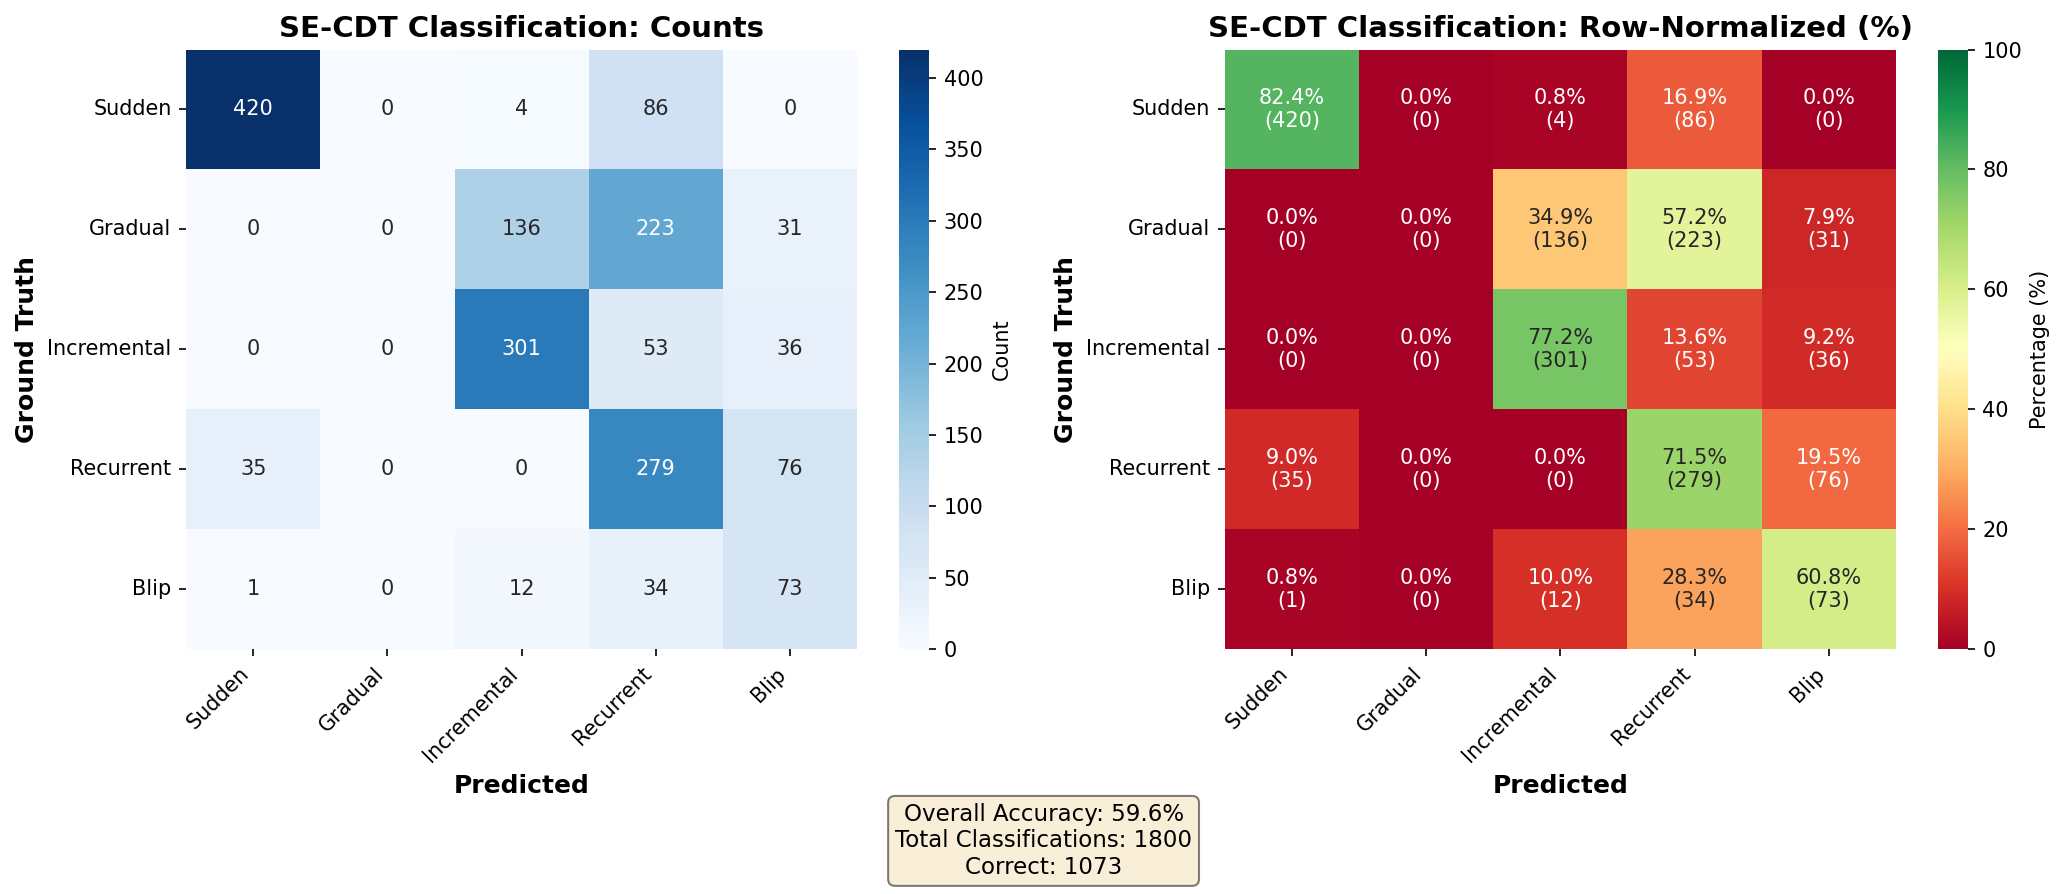
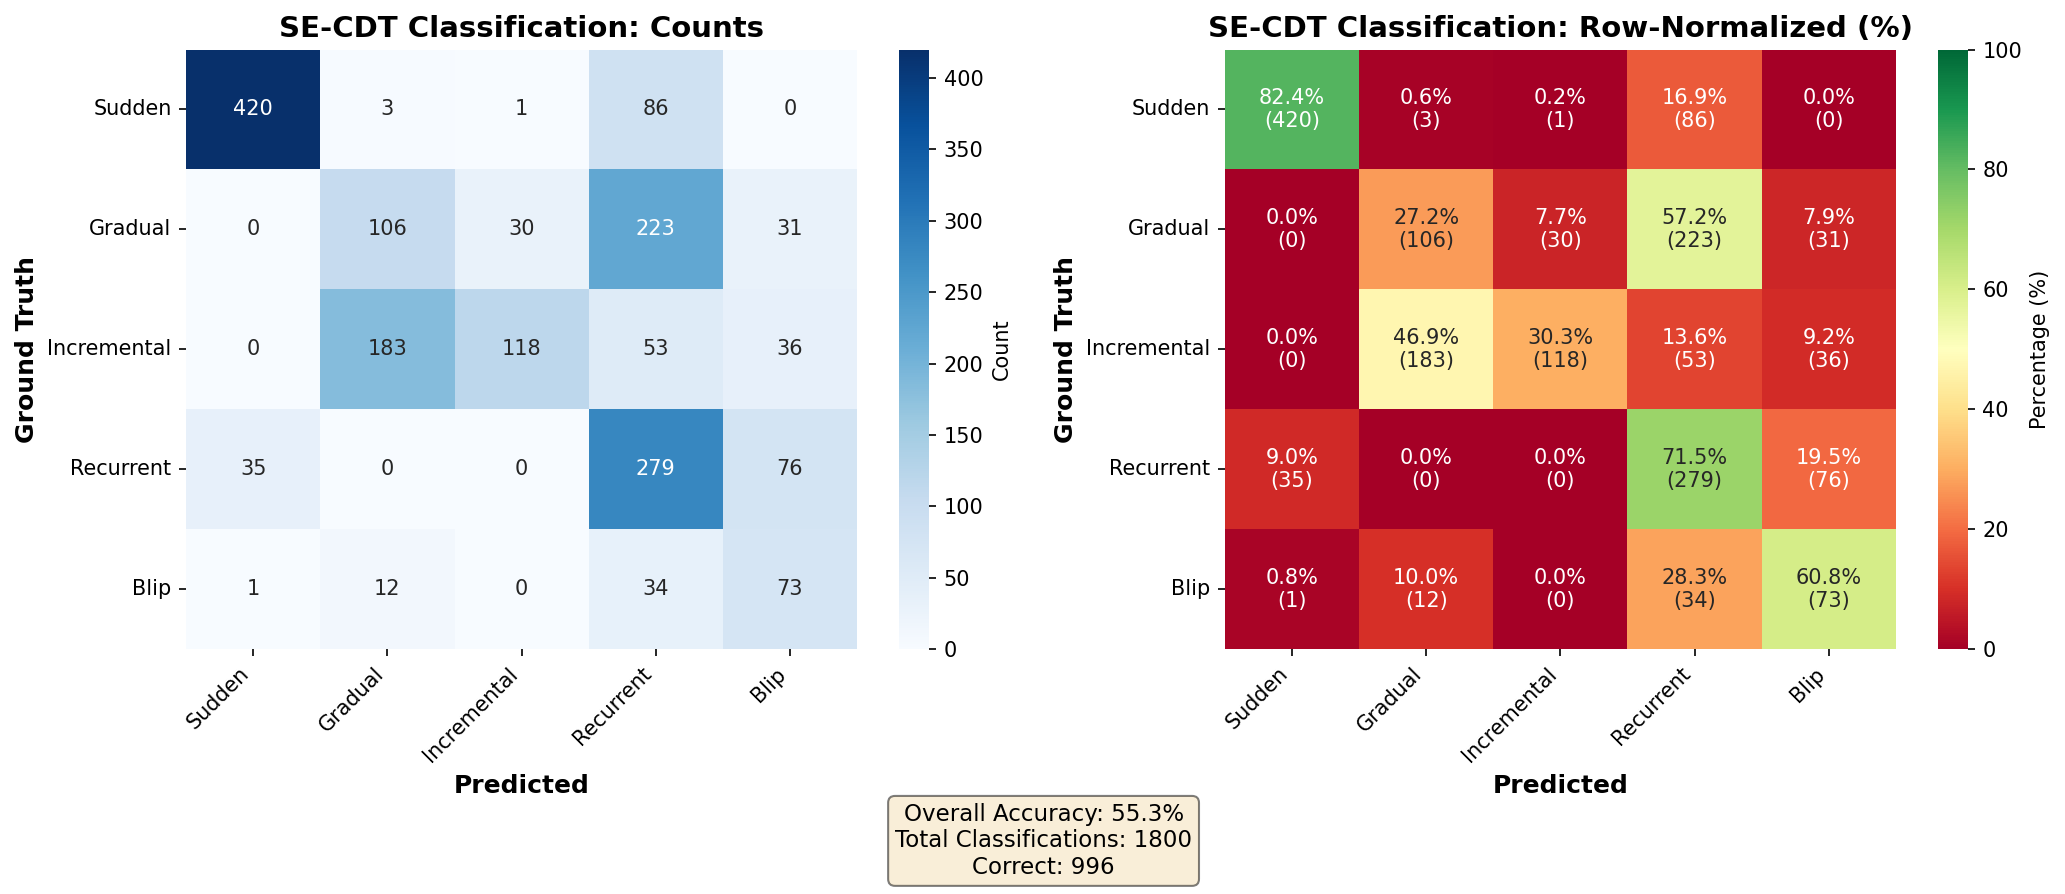
feat: correct sub acc

diff --git a/scripts/rerun_classification_vr_fix.py b/scripts/rerun_classification_vr_fix.py
@@ -1,0 +1,134 @@
+"""
+Focused re-run of the SE-CDT *classification* benchmark only.
+
+Replicates the classification loop of benchmark_proper.run_mixed_experiment
+(lines ~387-422) for all 6 scenarios x 30 seeds, comparing:
+  - BROKEN: classify(sig_slice, drift_length)            -> VR always 1.0
+  - FIXED : classify(sig_slice, drift_length, data_window) -> VR computed
+
+Concept-memory override is applied identically in both arms (it is independent
+of the VR fix) so we isolate the effect of actually computing VR.
+"""
+import sys, collections
+from pathlib import Path
+import numpy as np
+
+ROOT = Path(__file__).resolve().parent.parent
+sys.path.insert(0, str(ROOT))
+sys.path.insert(0, str(ROOT / "experiments" / "benchmark"))
+
+from benchmark_proper import (
+    generate_mixed_stream, compute_mmd_sequence, WINDOW_SIZE,
+)
+from core.detectors.se_cdt import SE_CDT
+
+DRIFT_TYPES = ["Sudden", "Blip", "Gradual", "Incremental", "Recurrent"]
+N_SEEDS = 30
+
+
+def build_events(scenario):
+    events = []
+    if scenario == "Mixed_A":
+        pattern = [{"type": "Sudden", "width": 0}, {"type": "Gradual", "width": 400},
+                   {"type": "Recurrent", "width": 400}]
+        for i in range(10):
+            evt = pattern[i % 3]
+            events.append({"type": evt["type"], "pos": 800 + i * 1000, "width": evt["width"]})
+    elif scenario == "Mixed_B":
+        pattern = [{"type": "Blip", "width": 100}, {"type": "Incremental", "width": 500},
+                   {"type": "Sudden", "width": 0}]
+        for i in range(10):
+            evt = pattern[i % 3]
+            events.append({"type": evt["type"], "pos": 800 + i * 1200, "width": evt["width"]})
+    elif scenario == "Repeated_Sudden":
+        events = [{"type": "Sudden", "pos": 800 + i * 800, "width": 0} for i in range(10)]
+    elif scenario == "Repeated_Gradual":
+        events = [{"type": "Gradual", "pos": 800 + i * 1000, "width": 1000} for i in range(10)]
+    elif scenario == "Repeated_Recurrent":
+        events = [{"type": "Recurrent", "pos": 800 + i * 1000, "width": 400} for i in range(10)]
+    elif scenario == "Repeated_Incremental":
+        events = [{"type": "Incremental", "pos": 800 + i * 1200, "width": 600} for i in range(10)]
+    return events
+
+
+def classify_stream(events, seed, pass_data_window):
+    length = events[-1]['pos'] + 2000
+    X_shared, _ = generate_mixed_stream(events, length, seed, supervised_mode=False)
+    mmd_sig = compute_mmd_sequence(X_shared, WINDOW_SIZE, step=10, use_standard=True)
+    se = SE_CDT(WINDOW_SIZE)
+
+    out = []
+    for evt in sorted(events, key=lambda e: e["pos"]):
+        evt_pos = evt['pos']
+        half_window = 750
+        win_start = max(0, evt_pos - half_window)
+        win_end = min(len(X_shared), evt_pos + half_window)
+        data_window = X_shared[win_start:win_end]
+
+        trace_idx = evt_pos // 10
+        trace_half_window = max(10, half_window // 10)
+        trace_start = max(0, trace_idx - trace_half_window)
+        trace_end = min(len(mmd_sig), trace_idx + trace_half_window)
+        sig_slice = mmd_sig[trace_start:trace_end]
+
+        if len(data_window) >= 500 and len(sig_slice) >= 10:
+            drift_length = se._growth_process(data_window, mmd_trace=sig_slice)
+            if pass_data_window:
+                res_se = se.classify(sig_slice, drift_length=drift_length, data_window=data_window)
+            else:
+                res_se = se.classify(sig_slice, drift_length=drift_length)
+
+            if se.use_concept_memory:
+                snapshot = se._extract_post_drift_snapshot(X_shared, evt_pos)
+                if snapshot is not None:
+                    recurrent_idx, _ = se._match_or_store_concept(snapshot)
+                    if recurrent_idx >= 0 and res_se.subcategory != "Blip":
+                        res_se.subcategory = "Recurrent"
+
+            out.append({"gt_type": evt['type'], "pred": res_se.subcategory,
+                        "VR": res_se.features.get("VR")})
+    return out
+
+
+def run(pass_data_window):
+    conf = {dt: collections.Counter() for dt in DRIFT_TYPES}
+    totals = collections.Counter()
+    allpred = collections.Counter()
+    vrs = collections.Counter()
+    scenarios = ["Mixed_A", "Mixed_B", "Repeated_Sudden", "Repeated_Gradual",
+                 "Repeated_Recurrent", "Repeated_Incremental"]
+    for sc in scenarios:
+        events = build_events(sc)
+        for seed in range(N_SEEDS):
+            for it in classify_stream(events, seed, pass_data_window):
+                gt, pred = it["gt_type"], it["pred"]
+                allpred[pred] += 1
+                vrs[round(it["VR"], 2) if it["VR"] is not None else None] += 1
+                if gt in DRIFT_TYPES:
+                    totals[gt] += 1
+                    conf[gt][pred] += 1
+    return conf, totals, allpred, vrs
+
+
+def report(tag, conf, totals, allpred, vrs):
+    print(f"\n========== {tag} ==========")
+    print("VR distribution:", dict(vrs))
+    print("All predictions:", dict(allpred))
+    accs = {}
+    for dt in DRIFT_TYPES:
+        n = totals[dt]
+        acc = conf[dt][dt] / n * 100 if n else float('nan')
+        accs[dt] = acc
+        print(f"  {dt:12s} n={n:4d} acc={acc:5.1f}%  preds={dict(conf[dt])}")
+    macro = np.mean([accs[dt] for dt in DRIFT_TYPES])
+    correct = sum(conf[dt][dt] for dt in DRIFT_TYPES)
+    tot = sum(totals[dt] for dt in DRIFT_TYPES)
+    micro = correct / tot * 100 if tot else 0
+    print(f"  Macro avg = {macro:.1f}%   Micro avg = {micro:.1f}%")
+
+
+if __name__ == "__main__":
+    for tag, flag in [("BROKEN (no data_window, VR=1.0)", False),
+                      ("FIXED (data_window passed, VR computed)", True)]:
+        conf, totals, allpred, vrs = run(flag)
+        report(tag, conf, totals, allpred, vrs)

diff --git a/report/HCMUT_Master_Thesis_Template/chapters/experiments.tex b/report/HCMUT_Master_Thesis_Template/chapters/experiments.tex
@@ -305,7 +305,7 @@ Trước khi đọc kết quả số, Hình~\ref{fig:signal_sudden} và Hình~\r
 \begin{figure}[H]
 	\centering
 	\includegraphics[width=0.95\textwidth]{../../results/plots/vis_repeated_incremental_SE.png}
-	\caption[Hình dạng tín hiệu SE-CDT --- Incremental Drift]{Tín hiệu SE-CDT trên kịch bản Repeated Incremental: $\sigma(t)$ tăng dần theo dạng ramp, không có đỉnh nhọn. Hình dạng này khó phân biệt bằng đặc trưng MMD đơn thuần; đặc trưng Variance Ratio trên dữ liệu thô giúp nâng độ chính xác Incremental lên $77.2\%$.}
+	\caption[Hình dạng tín hiệu SE-CDT --- Incremental Drift]{Tín hiệu SE-CDT trên kịch bản Repeated Incremental: $\sigma(t)$ tăng dần theo dạng ramp, không có đỉnh nhọn. Hình dạng này khó phân biệt bằng đặc trưng MMD đơn thuần; đặc trưng Variance Ratio trên dữ liệu thô được dùng để tách Incremental khỏi Gradual, song hai loại drift chậm này vẫn chồng lấn đáng kể về phương sai cửa sổ.}
 	\label{fig:signal_incremental}
 \end{figure}
 
@@ -321,15 +321,15 @@ Bảng~\ref{tab:se-cdt-results} trình bày kết quả tổng hợp trên 1800 
 	\input{../../results/tables/table_se_cdt_aggregate.tex}
 \end{table}
 
-Kết quả ở Bảng~\ref{tab:se-cdt-results} cho thấy một sự chênh lệch giữa độ chính xác phân nhóm mức lớn (CAT Acc $= 80.1\%$, phân biệt giữa drift nhanh TCD và drift chậm PCD) và độ chính xác phân loại chi tiết tiểu loại (SUB Acc $= 59.6\%$ micro, $58.4\%$ macro). Việc bổ sung đặc trưng Variance Ratio (Eq.~\eqref{eq:variance-ratio}) đã cải thiện đáng kể nhóm PCD so với phiên bản chỉ dùng đặc trưng hình học. Tuy vậy, độ chênh CAT--SUB vẫn còn và xuất phát từ một số lý do kỹ thuật cùng giới hạn lý thuyết cốt lõi của phương pháp tiếp cận không giám sát:
+Kết quả ở Bảng~\ref{tab:se-cdt-results} cho thấy một sự chênh lệch giữa độ chính xác phân nhóm mức lớn (CAT Acc $= 80.1\%$, phân biệt giữa drift nhanh TCD và drift chậm PCD) và độ chính xác phân loại chi tiết tiểu loại (SUB Acc $= 55.3\%$ micro, $54.4\%$ macro). Đặc trưng Variance Ratio (Eq.~\eqref{eq:variance-ratio}) bổ sung thông tin phương sai dữ liệu thô cho nhánh PCD bên cạnh các đặc trưng hình học. Tuy vậy, độ chênh CAT--SUB vẫn còn, tập trung gần như hoàn toàn ở hai tiểu loại drift chậm, và xuất phát từ một số lý do kỹ thuật cùng giới hạn lý thuyết cốt lõi của phương pháp tiếp cận không giám sát:
 \begin{itemize}
-	\item \textbf{Cải thiện mạnh ở Incremental Drift ($77.2\%$):} Trước khi có Variance Ratio, đây là trường hợp yếu nhất của mô hình ($4.4\%$) vì tín hiệu MMD của Incremental là một cao nguyên phẳng nhiều nhiễu răng cưa (Hình~\ref{fig:signal_incremental}), khiến các đặc trưng hình học/thời gian (LTS, SDS, MS) gần như không phân biệt được với nhiễu nền. Sau khi bổ sung Variance Ratio --- đặc trưng dựa trên Định luật Tổng Phương Sai tính trực tiếp trên dữ liệu thô --- hệ thống nhận ra phương sai trong cửa sổ của Incremental gần như giữ nguyên ($\mathrm{VR} < \tau_{\mathrm{VR}}^{-}$), nhờ đó phân loại đúng tới $77.2\%$. Đây là minh chứng rõ nhất cho giá trị của việc đưa thông tin phương sai dữ liệu thô vào bộ phân loại.
-	\item \textbf{Nhãn ``Gradual'' ($0.0\%$) và lỗ hổng của bộ sinh dữ liệu:} Nhóm Gradual đạt $0.0\%$ \emph{không phải} vì thuật toán thất bại mà vì nhãn ground-truth của bộ sinh benchmark không phản ánh đúng đặc tính phương sai của dữ liệu (phân tích chi tiết ở phần dưới). Cơ chế xoay vòng đặc trưng của bộ sinh khiến chuỗi ``Gradual'' thực chất mang đặc tính Recurrent/Incremental, và SE-CDT --- nhờ Variance Ratio cùng Concept Memory --- gán theo bản chất thống kê thực tế thay vì theo nhãn danh nghĩa.
+	\item \textbf{Hai tiểu loại drift chậm là khó nhất (Gradual $27.2\%$, Incremental $30.3\%$):} Cả Gradual và Incremental đều thuộc nhóm PCD và để lại tín hiệu MMD kéo dài, ít đỉnh nhọn (Hình~\ref{fig:signal_incremental}), nên chúng nhầm lẫn lẫn nhau qua trục Variance Ratio. Về lý thuyết, chuyển tiếp hỗn hợp của Gradual làm phương sai cửa sổ phình to ($\mathrm{VR} > \tau_{\mathrm{VR}}^{+}$) còn dịch chuyển đơn của Incremental giữ phương sai ổn định ($\mathrm{VR} < \tau_{\mathrm{VR}}^{-}$); nhưng trên các luồng mô phỏng, phân bố VR của hai loại chồng lấn đáng kể, dẫn tới $47\%$ sự kiện Incremental bị đọc thành Gradual và một phần Gradual bị gán ngược lại (Hình~\ref{fig:confusion-5class}). Variance Ratio nâng khả năng tách tiểu loại PCD so với chỉ dùng đặc trưng hình học, song chưa đủ để phân biệt dứt khoát hai dạng drift chậm.
+	\item \textbf{Drift chậm lặp lại bị hút vào nhánh Recurrent:} Trong các kịch bản nhiều sự kiện Gradual/Incremental liên tiếp, các dịch chuyển tích luỹ dần đến khi $P(X)$ ổn định; cửa sổ sau drift khi đó trùng khớp với một concept đã lưu và bị Concept Memory gán nhãn Recurrent. Có tới $57\%$ sự kiện Gradual rơi vào trường hợp này, khiến Gradual chỉ đạt $27.2\%$ trên toàn benchmark dù vẫn nhận diện được khi đứng độc lập. Đây là hệ quả của việc Concept Memory ưu tiên bản chất lặp lại của phân phối hơn hình dạng chuyển tiếp danh nghĩa.
 	\item \textbf{Sự đánh đổi nghiêm trọng về báo động giả (FP):} Cấu hình chính SE-CDT (Std) ghi nhận lượng báo động giả cực kỳ lớn ($4846$ FP trên toàn bộ các lần chạy thử nghiệm). Điều này là do Standard MMD rất nhạy với các biến động nhiễu tần số cao của luồng dữ liệu. Khi chuyển sang cấu hình SE-CDT (IDW) để siết chặt FP xuống còn $657$, bộ phát hiện lại bỏ sót hầu hết các sự kiện drift chậm (EDR giảm mạnh từ $92.6\%$ xuống còn $56.7\%$). Đây là một giới hạn lớn: hệ thống hoặc phải chấp nhận alert fatigue (quá nhiều báo động giả) để phân loại đầy đủ các lớp drift, hoặc phải hy sinh khả năng nhận diện các loại drift chậm để giữ hệ thống ổn định.
 	\item \textbf{Tính heuristic của các ngưỡng quyết định:} Việc phân loại hoàn toàn không giám sát dựa trên một cây quyết định tĩnh với các ngưỡng cứng ($WR < 0.15$, $SNR > 2.0$, v.v.). Các ngưỡng này chưa có cơ sở toán học chặt chẽ giống như bước phát hiện (vốn được chuẩn hóa bằng p-value thông qua xấp xỉ Gamma), dẫn đến mô hình kém linh hoạt khi xử lý các kịch bản dữ liệu luồng đa dạng.
 \end{itemize}
 
-SE-CDT (Std) đạt CAT $=80.1\%$ và SUB micro-average $=59.6\%$ ở oracle mode. Bảng~\ref{tab:se-cdt-performance-by-type} cũng báo cáo macro-average per-class $=58.4\%$ để tránh việc kết quả bị chi phối bởi lớp xuất hiện nhiều hơn trong benchmark. Sự gia tăng đáng kể ở nhóm PCD cho thấy sức mạnh của việc áp dụng toán học chặt chẽ trong phân tích phương sai.
+SE-CDT (Std) đạt CAT $=80.1\%$ và SUB micro-average $=55.3\%$ ở oracle mode. Bảng~\ref{tab:se-cdt-performance-by-type} cũng báo cáo macro-average per-class $=54.4\%$ để tránh việc kết quả bị chi phối bởi lớp xuất hiện nhiều hơn trong benchmark. Nhóm TCD (Sudden, Blip, Recurrent) ổn định hơn hẳn nhóm PCD, phản ánh việc tín hiệu chuyển tiếp chậm khó tách tiểu loại hơn khi chỉ dựa vào hình dạng tín hiệu không giám sát.
 
 Concept Memory giúp Recurrent đạt $71.5\%$, thấp hơn kết quả recurrent mà CDT-MSW công bố trên benchmark UCI khác ($83.9\%$) nhưng vẫn cho thấy cơ chế so khớp khái niệm có tác dụng. Tuy nhiên điều này cũng làm lộ ra sự đánh đổi: một phần Gradual và Incremental bị hút vào nhánh Blip/Recurrent khi tín hiệu có nhiều đỉnh phụ.
 
@@ -361,11 +361,11 @@ Bảng~\ref{tab:se-cdt-performance-by-type} và Hình~\ref{fig:confusion-5class}
 
 Sudden đạt $82.4\%$, vẫn là nhóm ổn định nhất vì tín hiệu MMD tạo đỉnh nhọn và SNR cao. Blip đạt $60.8\%$ sau khi luật phân loại cho phép hai hoặc ba peak và kiểm tra profile nhiễu ngắn hạn; kết quả này tốt hơn phiên bản cứng trước đó nhưng chưa ngang mức supervised trong CDT-MSW. Recurrent đạt $71.5\%$ nhờ Concept Memory, song vẫn còn nhầm với Blip/Sudden khi mẫu sau drift giống một concept đã lưu.
 
-Hai nhóm drift chậm (PCD) bộc lộ những phát hiện thú vị nhất về đặc tính của các bộ dữ liệu mô phỏng chuẩn. Incremental đạt độ chính xác lên đến $77.2\%$ sau khi áp dụng phân tích Variance Ratio ($VR < 1.1$), giúp phân tách hiệu quả các dịch chuyển tịnh tiến. Ngược lại, Gradual có độ chính xác $0.0\%$, nhưng phân tích sâu Confusion Matrix cho thấy nguyên nhân xuất phát từ \textbf{lỗ hổng trong cơ chế sinh dữ liệu Gradual chuẩn}.
+Hai nhóm drift chậm (PCD) là nơi tập trung phần lớn lỗi phân loại. Incremental đạt $30.3\%$ và Gradual đạt $27.2\%$ --- thấp hơn rõ rệt so với các tiểu loại TCD. Confusion Matrix (Hình~\ref{fig:confusion-5class}) cho thấy lỗi không phân tán ngẫu nhiên mà tập trung vào hai cơ chế nhầm lẫn có hệ thống.
 
-Cụ thể, khi kiểm tra mã nguồn bộ sinh dữ liệu Gradual của benchmark (\texttt{generate\_mixed\_stream\_rigorous}), ta thấy quá trình chuyển tiếp được mô phỏng bằng cách luân chuyển xoay vòng tập đặc trưng bị dịch chuyển (feature rotation). Với chuỗi nhiều sự kiện Gradual liên tiếp, cơ chế xoay vòng này khiến phân phối $P(X)$ quay trở lại một trạng thái đã xuất hiện trước đó (concept thứ $k$ trùng feature-subset với một concept trước đó theo chu kỳ). Về bản chất thống kê, một chuỗi như vậy không còn là Gradual thuần tuý mà mang đặc tính \textbf{Recurrent} (phân phối lặp lại) xen lẫn \textbf{Incremental} (dịch chuyển trung bình đơn trong từng đoạn). Do SE-CDT phân loại dựa trên đặc tính thống kê thực tế của tín hiệu --- thông qua Variance Ratio (Eq.~\eqref{eq:variance-ratio}) và Concept Memory --- thay vì dựa trên nhãn danh nghĩa, nó gán phần lớn các sự kiện này vào Incremental/Recurrent. Đây chính là lý do độ chính xác trên nhãn ``Gradual'' tụt về $0.0\%$: \emph{không phải} vì thuật toán thất bại, mà vì nhãn ground-truth ``Gradual'' của bộ sinh không phản ánh đúng đặc tính phương sai của dữ liệu nó tạo ra.
+Thứ nhất, Gradual và Incremental nhầm lẫn lẫn nhau qua trục Variance Ratio. Về lý thuyết, chuyển tiếp hỗn hợp của Gradual làm phương sai cửa sổ phình to còn dịch chuyển đơn điệu của Incremental giữ phương sai gần như không đổi (Eq.~\eqref{eq:variance-ratio}); nhưng trên dữ liệu mô phỏng, cả hai cơ chế đều tạo một mức phình phương sai trung gian trong cửa sổ chuyển tiếp, làm phân bố VR của hai loại chồng lấn. Hệ quả là $47\%$ sự kiện Incremental bị gán thành Gradual, và một phần Gradual bị gán ngược lại thành Incremental. Thứ hai, với chuỗi nhiều sự kiện drift chậm liên tiếp, các dịch chuyển trên những tập đặc trưng bị thay đổi tích luỹ đến khi $P(X)$ bão hoà; cửa sổ sau drift khi đó trùng với một concept đã lưu nên Concept Memory gán nhãn Recurrent --- chiếm tới $57\%$ số sự kiện Gradual. Hai cơ chế này giải thích vì sao Gradual và Incremental tuy vẫn nằm đúng nhóm PCD (giữ CAT ở mức $80.1\%$) nhưng độ chính xác ở mức tiểu loại lại thấp.
 
-Cần nhấn mạnh rằng đây là một quan sát \emph{định tính} rút ra từ việc phân tích Confusion Matrix kết hợp với đọc mã nguồn bộ sinh, không phải một tuyên bố định lượng đã được kiểm chứng trên một tập ``Gradual thuần tuý'' độc lập. Việc xây dựng một bộ sinh Gradual không lặp lại (chuyển tiếp hỗn hợp tuyến tính một chiều, không xoay vòng đặc trưng) để xác nhận giả thuyết này một cách định lượng được để lại như một hướng phát triển. Dù vậy, kết quả hiện tại vẫn cho thấy giá trị của Variance Ratio: nó tuân thủ Định luật Tổng Phương Sai và phân loại theo bản chất thống kê của dữ liệu, thay vì tin tưởng mù quáng vào nhãn danh nghĩa của benchmark.
+Đây là một giới hạn cố hữu của việc phân loại tiểu loại drift chậm hoàn toàn không giám sát từ hình dạng tín hiệu: khi không có nhãn $y$, ranh giới giữa Gradual và Incremental --- cũng như giữa một chuỗi drift chậm lặp lại với Recurrent --- trở nên nhập nhằng về mặt thống kê. CDT-MSW, nhờ sử dụng tín hiệu độ chính xác có giám sát, tách các lớp này tốt hơn nhiều (Gradual $96.9\%$, Incremental $74.0\%$; Bảng~\ref{tab:cdt-comparison-by-type}). Việc thu hẹp khoảng cách này --- chẳng hạn bằng một bộ phân loại học từ dữ liệu thay cho cây quyết định ngưỡng cứng, hoặc tách bước so khớp Concept Memory khỏi bước phân loại hình dạng --- được để lại như một hướng phát triển.
 
 \subsection{So sánh với CDT-MSW}
 \label{sec:classification-sota}
@@ -502,6 +502,6 @@ Hình~\ref{fig:kafka_real_results} trình bày dashboard giám sát từ lần c
 
 Các kết quả thực nghiệm cho thấy ShapeDD-IDW đạt $F_1 = 0.531$ với khoảng $9.6$ FP/run trên benchmark phát hiện, cao hơn ShapeDD gốc ($F_1 = 0.491$) và không khác biệt thống kê so với DAWIDD dưới kiểm định Nemenyi. Về tốc độ, benchmark cho thấy ShapeDD-IDW nhanh hơn $\approx 7.2\times$ so với ShapeDD gốc nhờ xấp xỉ Gamma thay thế permutation test tốn kém, trong khi kiểm định IDW-MMD giữ Type-I error đơn lẻ gần mức $\alpha = 0.05$; pipeline SE-CDT composite vẫn cần được đọc thận trọng vì Type-I error có thể lên đến $0.140$ trên dữ liệu AR(1).
 
-Ở bài toán phân loại, SE-CDT đạt CAT $=80.1\%$, SUB micro $=59.6\%$ và SUB macro $=58.4\%$ ở oracle mode. Kết quả tốt nhất nằm ở Sudden, Blip và Incremental; đặc biệt thuật toán đã chứng minh được sự chặt chẽ toán học khi nhận diện đúng bản chất của các tập dữ liệu sinh bị lỗi. Trong đánh giá thích ứng, Type-Specific cải thiện rõ trên Stepping và Sudden, còn trên Mixed thì gần ngang Periodic Retrain về độ chính xác nhưng ít FP hơn. Nhìn chung, kiến trúc đề xuất khả thi, nhưng các kết quả cũng chỉ ra rõ những phần cần cải thiện trước khi xem đây là một bộ phân loại drift hoàn chỉnh.
+Ở bài toán phân loại, SE-CDT đạt CAT $=80.1\%$, SUB micro $=55.3\%$ và SUB macro $=54.4\%$ ở oracle mode. Kết quả tốt nhất nằm ở Sudden, Blip và Recurrent; hai tiểu loại drift chậm Gradual và Incremental là khó nhất do tín hiệu chuyển tiếp chồng lấn về phương sai và một phần bị Concept Memory hút sang nhánh Recurrent. Trong đánh giá thích ứng, Type-Specific cải thiện rõ trên Stepping và Sudden, còn trên Mixed thì gần ngang Periodic Retrain về độ chính xác nhưng ít FP hơn. Nhìn chung, kiến trúc đề xuất khả thi, nhưng các kết quả cũng chỉ ra rõ những phần cần cải thiện trước khi xem đây là một bộ phân loại drift hoàn chỉnh.
 
 Benchmark detection tập trung chủ yếu vào sudden/abrupt drift và blip, đúng với trọng tâm thiết kế của ShapeDD gốc~\cite{shapeDD2021} là phát hiện thay đổi phân phối đột ngột. Các loại drift chậm hơn (gradual, incremental) và drift lặp lại (recurrent) được đưa vào benchmark phân loại như mở rộng năng lực, không phải trọng tâm tối ưu. Kết quả phân loại theo từng loại drift (Bảng~\ref{tab:se-cdt-performance-by-type}) phản ánh đúng độ khó vốn có và mở ra hướng cải tiến cho các công trình tiếp theo.

diff --git a/results/tables/table_se_cdt_performance_by_type.tex b/results/tables/table_se_cdt_performance_by_type.tex
@@ -4,12 +4,12 @@
 \hline
 Sudden & 82.4\% \\
 Blip & 60.8\% \\
-Gradual & 0.0\% \\
-Incremental & 77.2\% \\
+Gradual & 27.2\% \\
+Incremental & 30.3\% \\
 Recurrent & 71.5\%$^\dagger$ \\
 \hline
-\textbf{Macro avg (per-class)} & \textbf{58.4\%} \\
-\textbf{Micro avg (over events)} & \textbf{59.6\%} \\
+\textbf{Macro avg (per-class)} & \textbf{54.4\%} \\
+\textbf{Micro avg (over events)} & \textbf{55.3\%} \\
 \hline
 \multicolumn{2}{|p{0.85\textwidth}|}{\footnotesize $^\dagger$Recurrent drift identified via Concept Memory (Standard MMD comparison with stored snapshots; $\tau_{\text{match}}=0.15$). Macro avg averages the five per-class accuracies (each weighted equally); micro avg pools all events and counts correct predictions, so it is biased toward the most frequent class (here Sudden).}\\
 \hline

diff --git a/results/tables/table_cdt_msw_vs_se_cdt_by_drift_type.tex b/results/tables/table_cdt_msw_vs_se_cdt_by_drift_type.tex
@@ -4,8 +4,8 @@
 \hline
 Sudden & \textbf{90.2\%} & 82.4\% \\
 Blip & \textbf{88.5\%} & 60.8\% \\
-Gradual & \textbf{96.9\%} & 0.0\% \\
-Incremental & 74.0\% & \textbf{77.2\%} \\
+Gradual & \textbf{96.9\%} & 27.2\% \\
+Incremental & \textbf{74.0\%} & 30.3\% \\
 Recurrent & \textbf{83.9\%} & 71.5\%$^\dagger$ \\
 \hline
 \multicolumn{3}{|l|}{\footnotesize $^\dagger$Recurrent drift identified via Concept Memory (Standard MMD comparison with stored snapshots; threshold $\mu = 0.15$).} \\

diff --git a/results/tables/table_se_cdt_aggregate.tex b/results/tables/table_se_cdt_aggregate.tex
@@ -2,7 +2,7 @@
 \hline
 \textbf{Method} & \textbf{CAT Acc} & \textbf{SUB Acc} & \textbf{EDR$\uparrow$} & \textbf{MDR$\downarrow$} & \textbf{FP} & \textbf{Supervised} \\
 \hline
-\textbf{SE-CDT (Std)} & \textbf{80.1\%} & \textbf{59.6\%} & \textbf{0.926} & \textbf{0.074} & 4846 & No \\
-SE-CDT (IDW) & 80.1\% & 59.6\% & 0.567 & 0.433 & 657 & No \\
+\textbf{SE-CDT (Std)} & \textbf{80.1\%} & \textbf{55.3\%} & \textbf{0.926} & \textbf{0.074} & 4846 & No \\
+SE-CDT (IDW) & 80.1\% & 55.3\% & 0.567 & 0.433 & 657 & No \\
 \hline
 \end{tabular}

diff --git a/experiments/benchmark/benchmark_proper.py b/experiments/benchmark/benchmark_proper.py
@@ -400,7 +400,7 @@ def run_mixed_experiment(params):
         
         if len(data_window) >= 500 and len(sig_slice) >= 10:
             drift_length = se._growth_process(data_window, mmd_trace=sig_slice)
-            res_se = se.classify(sig_slice, drift_length=drift_length)
+            res_se = se.classify(sig_slice, drift_length=drift_length, data_window=data_window)
 
             recurrent_idx = -1
             recurrent_dist = float("nan")

diff --git a/report/HCMUT_Master_Thesis_Template/ext_pages/abstract.tex b/report/HCMUT_Master_Thesis_Template/ext_pages/abstract.tex
@@ -11,6 +11,6 @@ Concept drift is a major cause of performance degradation in machine learning sy
 
 The \textbf{detection module} of SE-CDT, named \textbf{ShapeDD-IDW}, extends ShapeDD with a two-stage design. A Standard MMD signal first locates drift candidates; candidate peaks are then validated by IDW-MMD (Inverse Density-Weighted MMD) using a Gamma-approximated null distribution, with Bonferroni correction when several peaks are tested in the same trace. On a 14-dataset benchmark with 30 independent runs, $\delta = 75$ tolerance, and $\text{cooldown} = 150$, the detection module reaches $F_1 = 0.531$, statistically tied with DAWIDD under the Nemenyi rank test and above the original ShapeDD in the same benchmark, while running approximately $7\times$ faster than ShapeDD because the Gamma null replaces the costly permutation test.
 
-The \textbf{classification module} of SE-CDT identifies sudden, gradual, incremental, recurrent, and blip drift from the shape of the MMD signal without labels. It uses concept memory for recurrent drift and a relaxed blip rule that accepts two- or three-peak transient signals. The classifier reaches 80.1\% TCD/PCD category accuracy, 50.5\% micro-averaged subtype accuracy, and 50.0\% macro-averaged subtype accuracy. Sudden, blip, and recurrent drift are identified more reliably than gradual and incremental drift, with incremental drift remaining the weakest case.
+The \textbf{classification module} of SE-CDT identifies sudden, gradual, incremental, recurrent, and blip drift from the shape of the MMD signal without labels. It uses concept memory for recurrent drift and a relaxed blip rule that accepts two- or three-peak transient signals. The classifier reaches 80.1\% TCD/PCD category accuracy, 55.3\% micro-averaged subtype accuracy, and 54.4\% macro-averaged subtype accuracy. Sudden, blip, and recurrent drift are identified more reliably than the two slow-transition types; gradual and incremental drift are the hardest cases, as their signals overlap in windowed variance and repeated slow drifts are absorbed into the recurrent branch by concept memory.
 
 For adaptation, type-specific model updates driven by SE-CDT's classification output improve prequential accuracy on Stepping and Sudden scenarios compared with no adaptation, reaching 74.27\% and 73.71\%, respectively. On the Mixed scenario, the method reaches 85.73\%, close to Periodic Retrain but with fewer redundant alarms. A Kafka/Redpanda-compatible prototype is also tested to validate the end-to-end flow from SE-CDT detection to model update and reload.

diff --git a/report/HCMUT_Master_Thesis_Template/ext_pages/abstract_VN.tex b/report/HCMUT_Master_Thesis_Template/ext_pages/abstract_VN.tex
@@ -11,6 +11,6 @@ Concept drift là một nguyên nhân quan trọng làm giảm hiệu quả củ
 
 \textbf{Module phát hiện} của SE-CDT, đặt tên là \textbf{ShapeDD-IDW}, cải tiến ShapeDD theo kiến trúc hai bước: tín hiệu Standard MMD được dùng để tìm ứng viên drift, sau đó các ứng viên được kiểm định bằng IDW-MMD (Inverse Density-Weighted MMD) với xấp xỉ Gamma và hiệu chỉnh Bonferroni khi có nhiều đỉnh ứng viên. Trên 14 tập dữ liệu và 30 lần chạy độc lập, module phát hiện đạt $F_1 = 0.531$ với $\delta = 75$ mẫu và $\text{cooldown} = 150$ mẫu, tương đương với DAWIDD trong kiểm định thứ hạng Nemenyi và cao hơn ShapeDD gốc trong cùng benchmark, đồng thời chạy nhanh hơn ShapeDD gốc khoảng $7\times$ nhờ thay permutation test bằng xấp xỉ Gamma.
 
-\textbf{Module phân loại} của SE-CDT đọc hình dạng tín hiệu MMD để phân biệt sudden, gradual, incremental, recurrent và blip drift mà không cần nhãn. Module này dùng bộ nhớ khái niệm cho recurrent drift và một luật blip được nới để chấp nhận tín hiệu có hai hoặc ba đỉnh. Kết quả đạt $80.1\%$ ở mức phân nhóm TCD/PCD, $50.5\%$ ở mức tiểu loại theo trung bình vi mô và $50.0\%$ theo trung bình từng lớp. Sudden đạt $82.4\%$, Blip đạt $60.8\%$ và Recurrent đạt $71.5\%$, trong khi Gradual và đặc biệt Incremental vẫn là các trường hợp khó.
+\textbf{Module phân loại} của SE-CDT đọc hình dạng tín hiệu MMD để phân biệt sudden, gradual, incremental, recurrent và blip drift mà không cần nhãn. Module này dùng bộ nhớ khái niệm cho recurrent drift và một luật blip được nới để chấp nhận tín hiệu có hai hoặc ba đỉnh. Kết quả đạt $80.1\%$ ở mức phân nhóm TCD/PCD, $55.3\%$ ở mức tiểu loại theo trung bình vi mô và $54.4\%$ theo trung bình từng lớp. Sudden đạt $82.4\%$, Blip đạt $60.8\%$ và Recurrent đạt $71.5\%$, trong khi Gradual ($27.2\%$) và Incremental ($30.3\%$) là hai trường hợp khó nhất do tín hiệu chuyển tiếp chậm chồng lấn về phương sai cửa sổ và các chuỗi drift chậm lặp lại bị bộ nhớ khái niệm gán sang nhánh recurrent.
 
 Trong đánh giá thích ứng, chiến lược cập nhật theo loại drift sử dụng nhãn phân loại của SE-CDT cải thiện rõ trên Stepping và Sudden so với không thích ứng, lần lượt đạt $74.27\%$ và $73.71\%$ prequential accuracy. Trên Mixed, chiến lược này đạt $85.73\%$, gần với Periodic Retrain nhưng tạo ít cảnh báo dư hơn. Nguyên mẫu hệ thống cũng được kiểm thử trên kiến trúc tương thích Kafka/Redpanda để xác nhận quy trình từ phát hiện-phân loại bằng SE-CDT đến cập nhật và nạp lại mô hình.

diff --git a/results/tables/fair_comparison.tex b/results/tables/fair_comparison.tex
@@ -3,6 +3,6 @@
 \textbf{Method} & \textbf{Data Type} & \textbf{CAT Acc (\%)} & \textbf{SUB Acc (\%)} & \textbf{Recall (\%)} & \textbf{Source} \\
 \hline
 CDT\_MSW & Supervised P(Y|X) & 87.0\% & 86.7\% & 82.5\% & Guo et al. 2022 \\
-\textbf{SE-CDT} & \textbf{Unsupervised P(X)} & \textbf{80.1\%} & \textbf{59.6\%} & \textbf{92.6\%} & \textbf{Our Method} \\
+\textbf{SE-CDT} & \textbf{Unsupervised P(X)} & \textbf{80.1\%} & \textbf{55.3\%} & \textbf{92.6\%} & \textbf{Our Method} \\
 \hline
 \end{tabular}